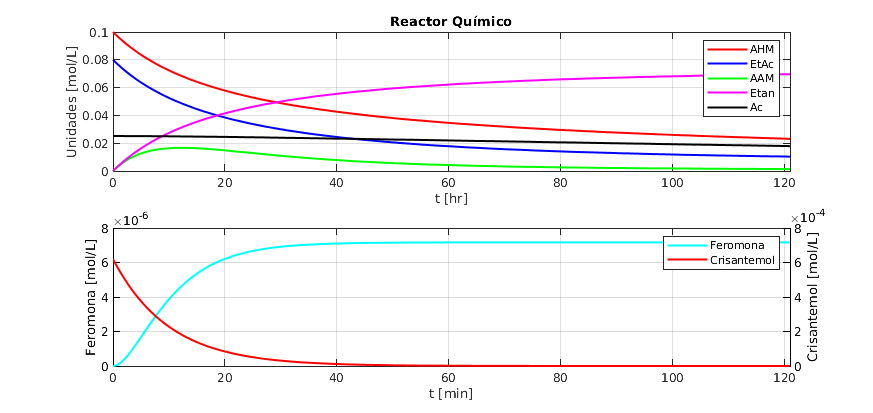
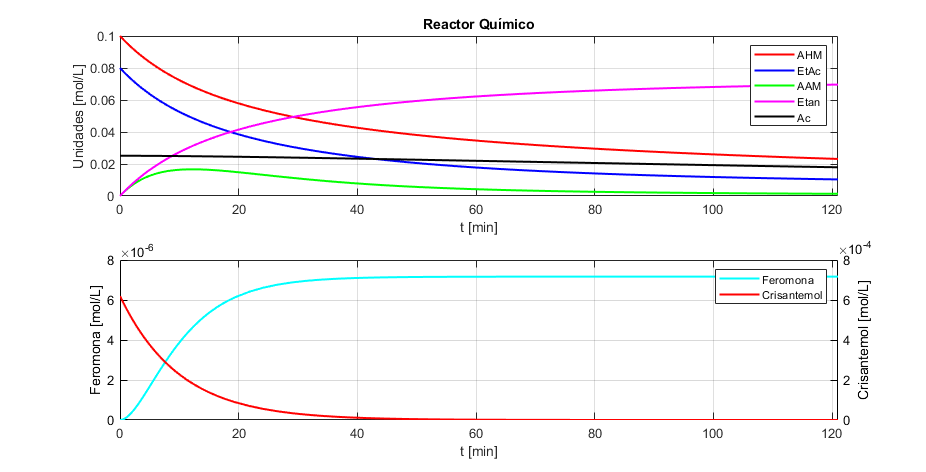
Pequeño arreglo hr -> min reac3

diff --git a/E2/Producción Enzima/macro.m b/E2/Producción Enzima/macro.m
@@ -84,7 +84,7 @@ plot(t,Etan,'-m','linewidth',1.5)
 % plot(t,Cris,'-b','linewidth',1.5)
 plot(t,Ac,'-k','linewidth',1.5); hold off
 legend('AHM','EtAc','AAM','Etan','Ac')
-xlabel('t [hr]')
+xlabel('t [min]')
 ylabel('Unidades [mol/L]')
 title('Reactor Químico')
 xlim([0 121])
